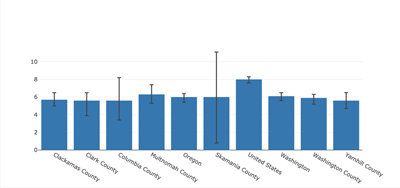
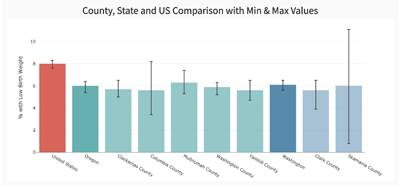
index links updated, errorbars.png updated

diff --git a/static/index.html b/static/index.html
@@ -72,25 +72,28 @@
         <section id="visualizations">
           <h2 class="visualization-header">Visualizations</h2>
           <div id="three_visualizations">
+            <!-- Line Chart Thumbnail -->
+            <br><br><a href="linechart.html"><img src="./images/linechart.png"
+                alt="Low Birth Weight Percentage: Counties, State, US" class="img-thumbnail">
+              <br>Line: Counties, State and US</a>
+
             <!-- Choropleth Thumbnail -->
             <a href="choropleth.html"><img src="./images/choropleth.png"
-                alt="Low Birth Weight Percentage: Counties Over Time (1998-2015)"
-                class="img-thumbnail">
-                <br>Low Birth Weight Percentage: Counties Over Time (1998-2015)</a>
-            <!-- Line Chart Thumbnail -->
-            <br><br><a href="viz_2.html"><img src="./images/linechart.png" alt="Low Birth Weight Percentage: Counties, State, US"
-                class="img-thumbnail">
-                <br>Low Birth Weight Percentage: Counties, State, US</a>
+                alt="Low Birth Weight Percentage: Counties Over Time (1998-2015)" class="img-thumbnail">
+              <br>Choropleth: Counties Over Time</a>
+
             <!-- Error Bar Bar Chart Thumbnail -->
-            <br><br><a href="viz_3.html"><img src="./images/errorbars.png" alt="Average Low Birth Weight Percentage: Counties"
-                class="img-thumbnail">
-              <br>Average Low Birth Weight Percentage: Counties</a>
+            <br><br><a href="errorbar.html"><img src="./images/errorbars.png"
+                alt="Average Low Birth Weight Percentage: Counties" class="img-thumbnail">
+              <br>Bar: Averages with Min & Max</a>
           </div>
         </section>
       </div>
     </div>
   </div>
-  <script src="https://stackpath.bootstrapcdn.com/bootstrap/3.4.1/js/bootstrap.min.js" integrity="sha384-aJ21OjlMXNL5UyIl/XNwTMqvzeRMZH2w8c5cRVpzpU8Y5bApTppSuUkhZXN0VxHd" crossorigin="anonymous"></script>
+  <script src="https://stackpath.bootstrapcdn.com/bootstrap/3.4.1/js/bootstrap.min.js"
+    integrity="sha384-aJ21OjlMXNL5UyIl/XNwTMqvzeRMZH2w8c5cRVpzpU8Y5bApTppSuUkhZXN0VxHd"
+    crossorigin="anonymous"></script>
 </body>
 
 </html>
